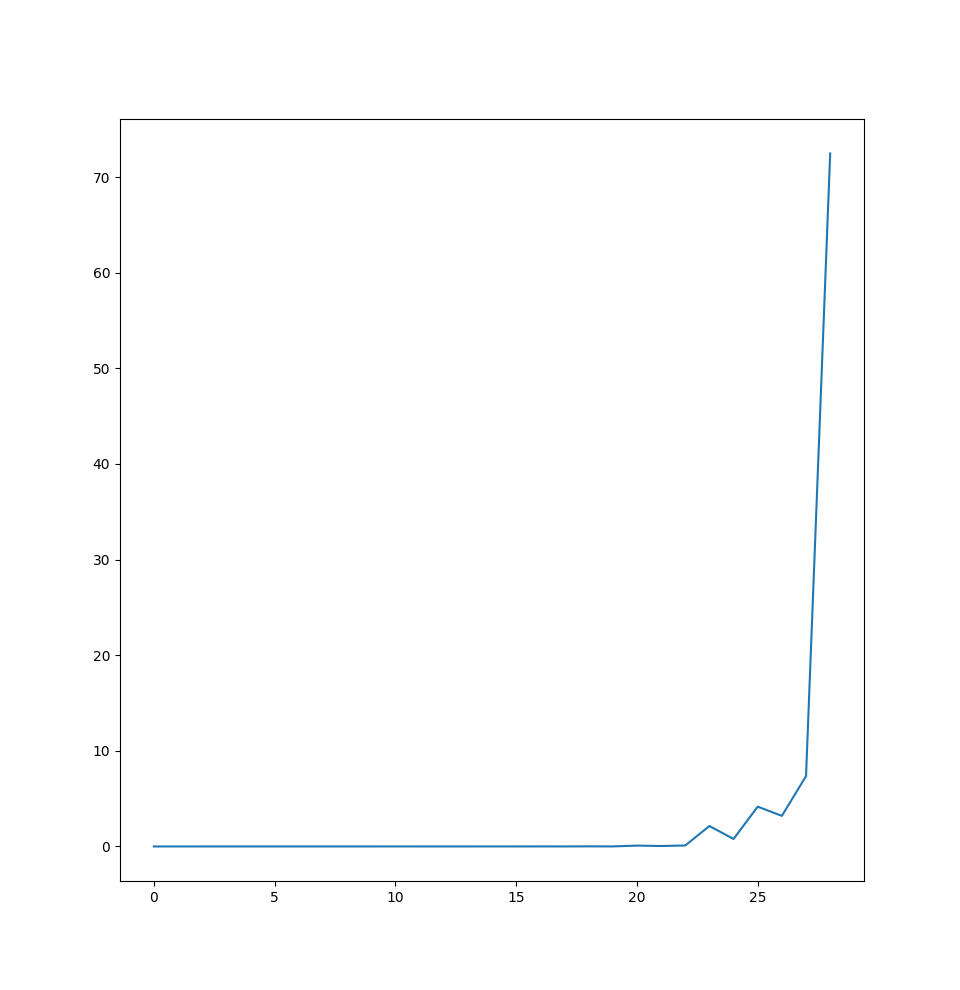
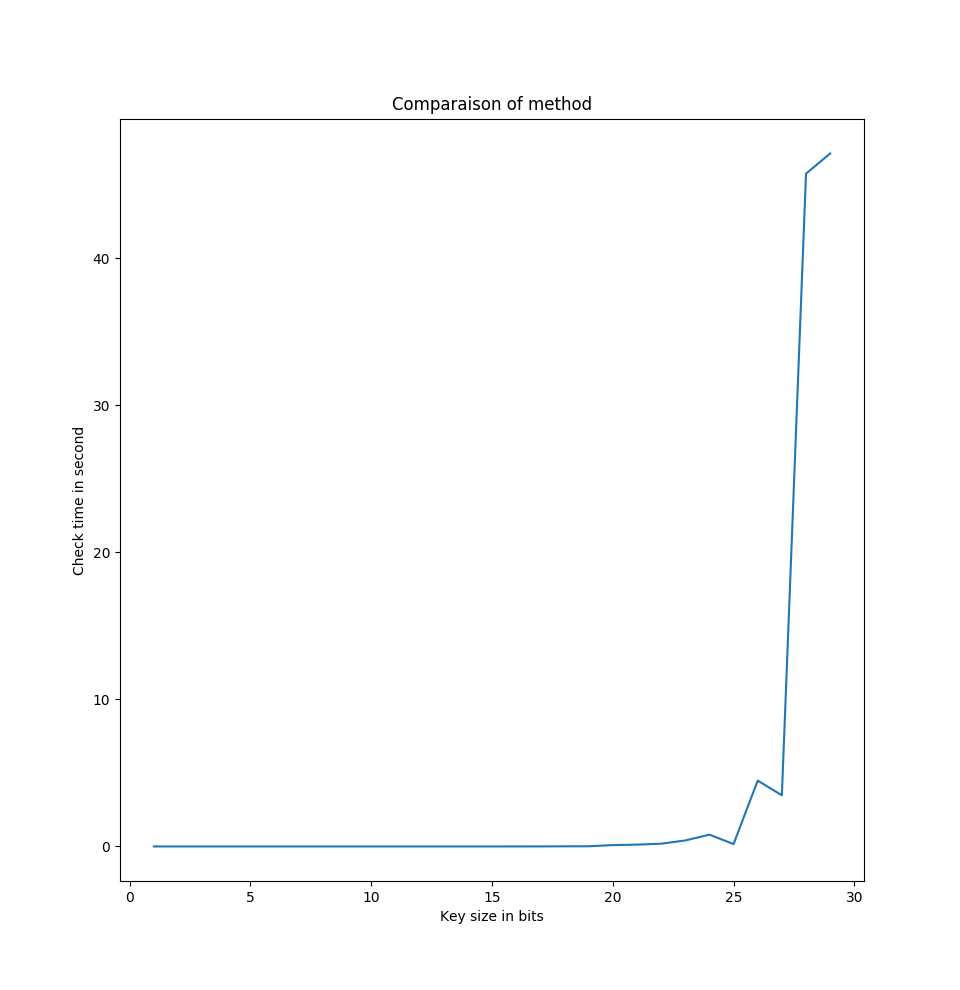
Fermat speed calculation

diff --git a/prime.py b/prime.py
@@ -11,7 +11,7 @@ def generatePrime(size=4096):
     return candidate
 
 
-def checkPrime(number):
+def checkPrimeFermat(number):
     a = 2
     if number == 1:
         return True
@@ -28,34 +28,27 @@ def checkPrime(number):
         return False
 
 
-n = generatePrime(10)
+def testPrime():
+    """Testing prime function"""
+    key_size = []
+    time_values = []
 
-# print(checkPrime(6))
-# print(checkPrime(11))
-# print(checkPrime(5))
-# print(checkPrime(3))
-# print(checkPrime(2))
-# print(checkPrime(97))
-#
-# print(checkPrime(1))
+    for taille in range(1, 30):
+        key_size.append(taille)
+        start = time.time()
+        isPrime = False
+        while isPrime is False:
+            n = generatePrime(taille)
+            isPrime = checkPrimeFermat(n)
+        totalTime = time.time() - start
+        time_values.append(totalTime)
 
-print(checkPrime(n))
+    plt.plot(key_size, time_values)
+    plt.legend("Fermat")
+    plt.xlabel("Key size in bits")
+    plt.ylabel("Check time in second")
+    plt.title("Comparaison of method")
+    plt.show()
 
-
-time_values = []
-for taille in range(1, 30):
-    print("Taille :" + str(taille))
-    start = time.time()
-    isPrime = False
-    while isPrime is False:
-        n = generatePrime(taille)
-        isPrime = checkPrime(n)
-        # print("Check if n is prime : " + str(n) + " result: " + str(isPrime))
-    totalTime = time.time() - start
-    time_values.append(totalTime)
-    print("Temps : " + str(totalTime) + " secondes")
-    print(n)
-
-
-plt.plot(time_values)
-plt.show()
+if __name__ == "__main__":
+    testPrime()
